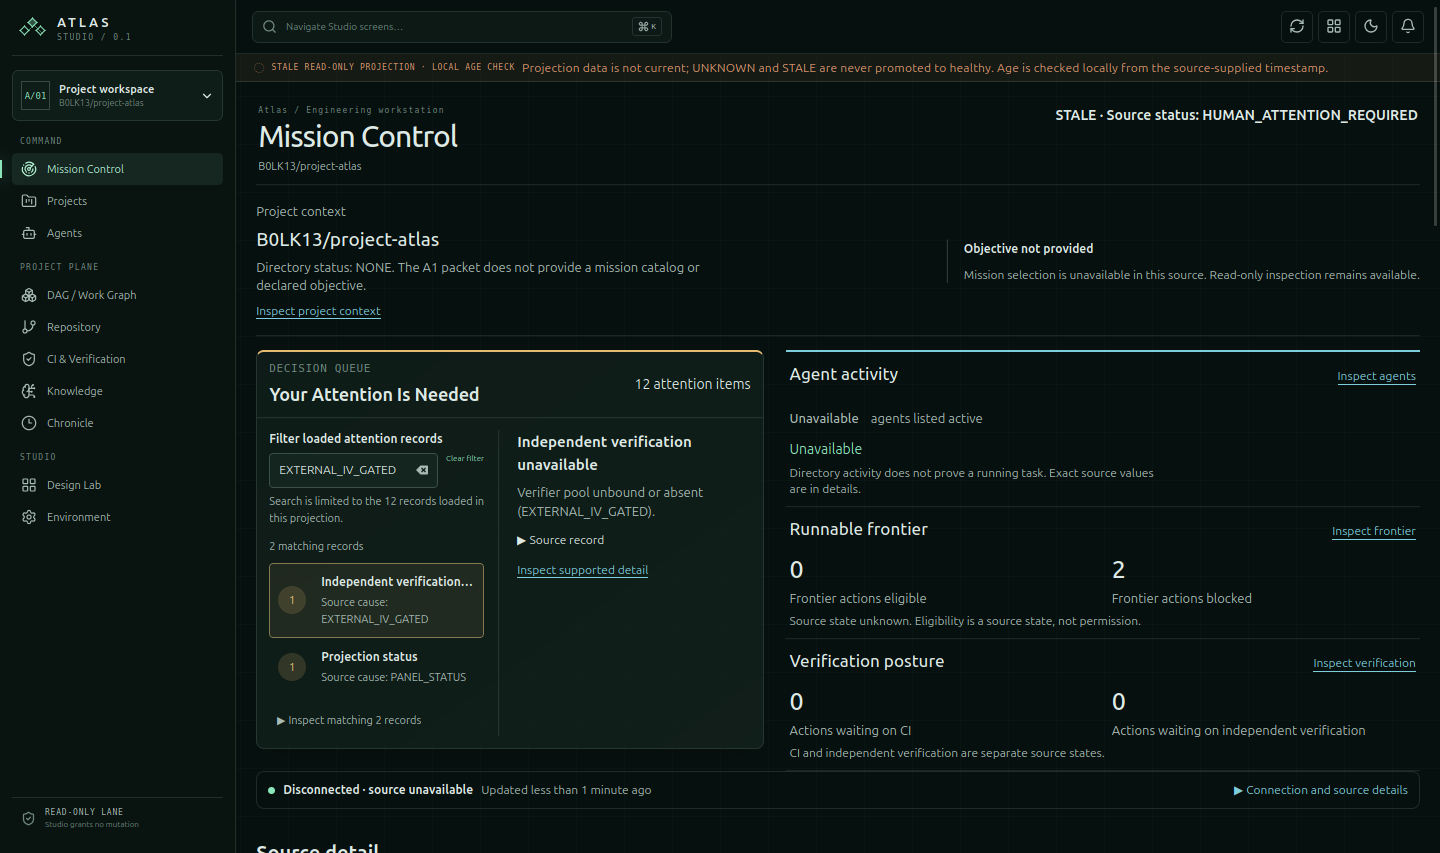
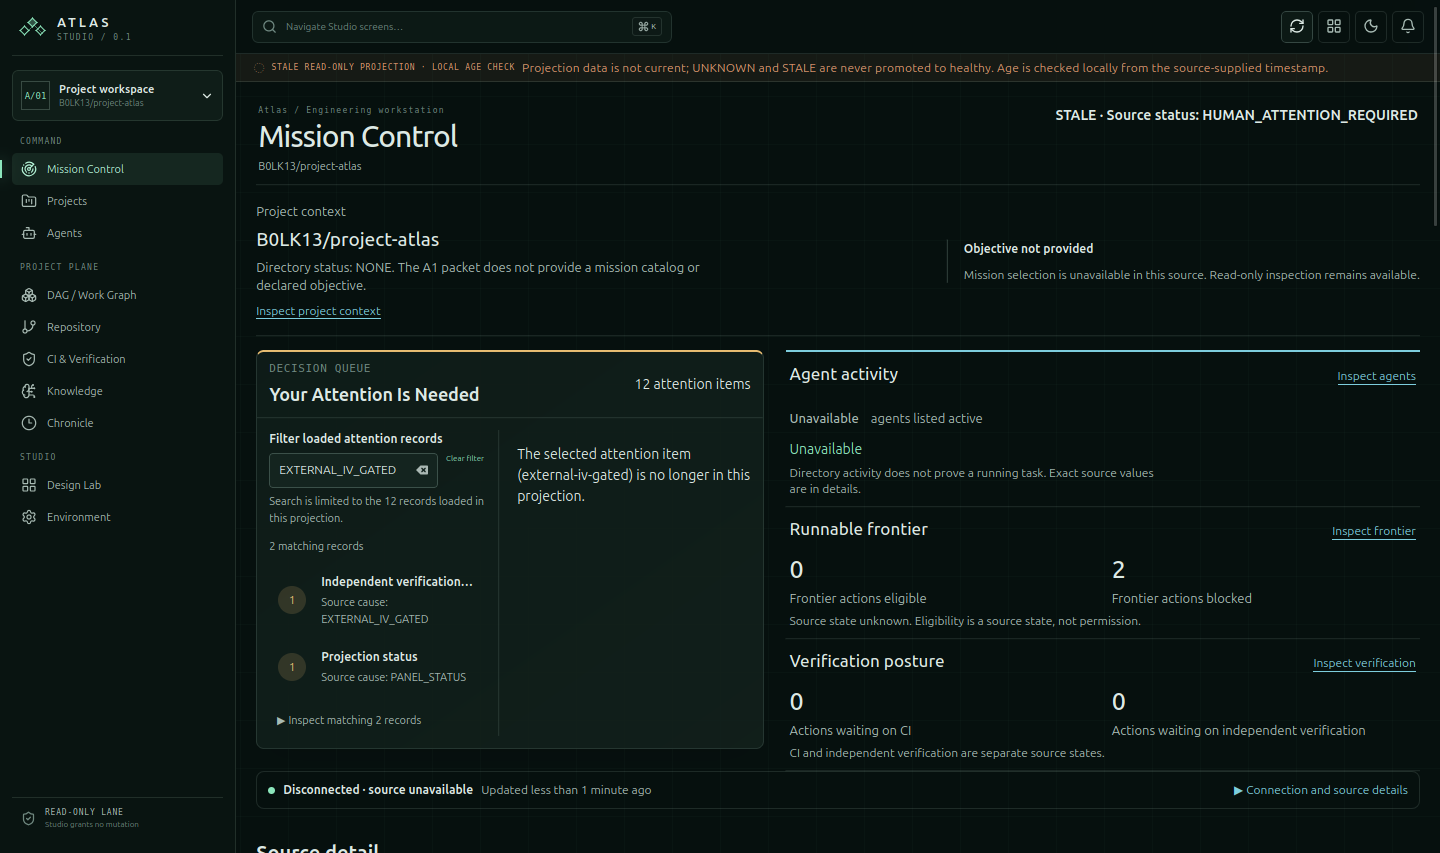
test(studio): cover native recovery states

Changed region(s): [[0.3438, 0.4877, 0.5312, 0.7011]]

diff --git a/docs/atlas-3/studio/productivity/NATIVE-AUTOMATION-008.md b/docs/atlas-3/studio/productivity/NATIVE-AUTOMATION-008.md
@@ -28,6 +28,8 @@ In a second terminal, run `STUDIO_NATIVE_SOURCE=fixture npm run native:acceptanc
 
 `npm run native:prereqs` checks the installed route; `npm run native:inspect` reports evidence hashes. Stop only the driver and bridge processes created for the run. WebDriver screenshots are native webview captures, not compositor or window-decoration captures.
 
+The fixture runner owns its temporary HTTP server and closes it in `finally`, including when WebDriver session creation or an assertion fails. For real data, leave the supported read-only bridge running separately and set `STUDIO_NATIVE_SOURCE=real`; a 2026-09-10 attempt returned `503 PROJECTION_FAILED_UPSTREAM_READS`, so no real-data journey is claimed.
+
 ## Evidence
 
 - Current implementation candidate preserved: `28ac8677`, tree `eb9aeb9037f0de0843ca143b98a55d35d9f807ba6`
@@ -35,3 +37,4 @@ In a second terminal, run `STUDIO_NATIVE_SOURCE=fixture npm run native:acceptanc
[2 lines of base64/hex data omitted]
 - Real bridge smoke: one WebDriver session loaded Mission Control, located the filter, activated it, and returned HTTP 200 from the raw screenshot endpoint; real upstream timing can leave the projection unavailable and is reported separately from fixture results.
+- Complete fixture campaign: navigation/return, keyboard focus, filter, changed detail, selected-record disappearance, stale, malformed, and recovered states all passed through observable native WebDriver UI conditions.
